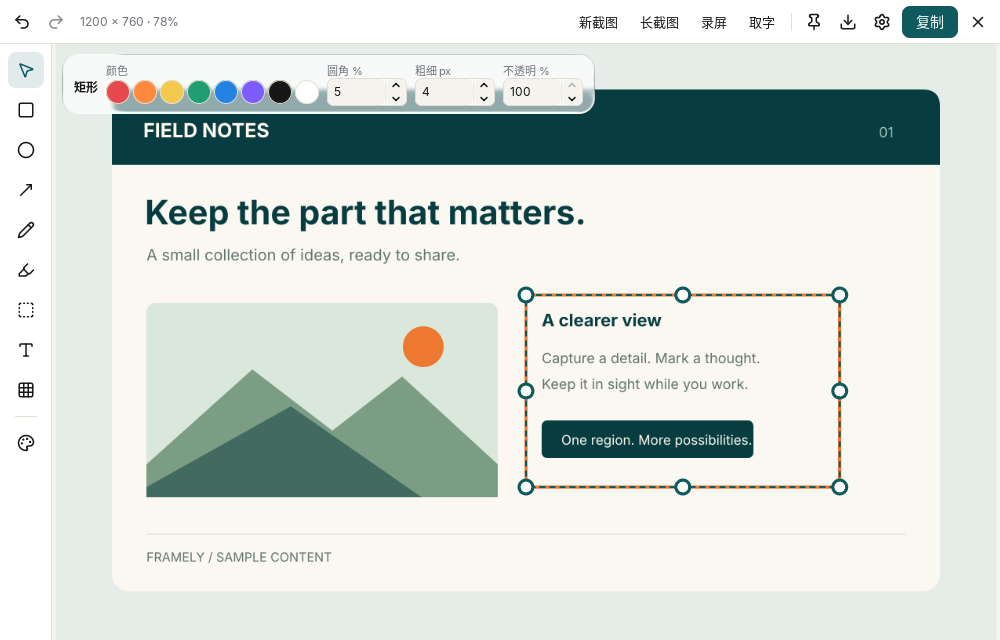
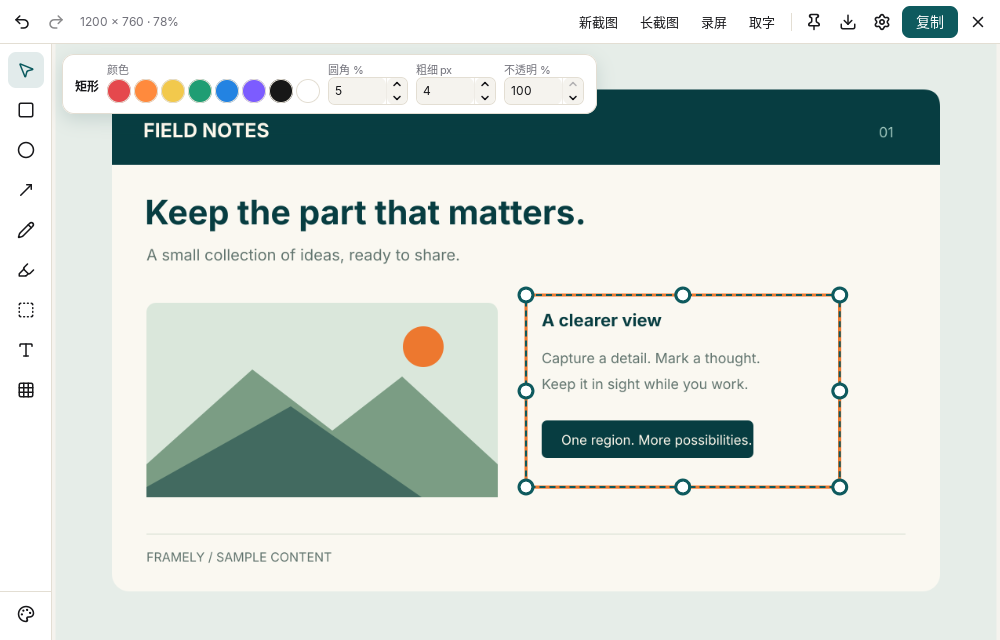
fix(ui): solid style strip instead of glass
The glass strip read poorly over busy screenshots; a solid surface
with a hairline border and soft shadow stays legible on any image.

Changed region(s): [[0.062, 0.0938, 0.62, 0.1875], [0.0, 0.9375, 0.031, 0.9688], [0.0, 0.6875, 0.031, 0.7188]]

diff --git a/internal/editor/properties.go b/internal/editor/properties.go
@@ -5,7 +5,6 @@ import (
 	"strconv"
 	"strings"
 
-	"github.com/egoist/mygo/plugins/glass"
 	"github.com/egoist/mygo/ui"
 	"github.com/wildalley/framely/internal/brand"
 	"github.com/wildalley/framely/internal/doc"
@@ -103,7 +102,7 @@ func (a *App) propertyColors(c *ui.Context, style doc.Style, expanded bool) {
 	})
 }
 
-// styleStrip floats over the top-left of the canvas on glass while the
+// styleStrip floats over the top-left of the canvas while the
 // current tool or the selected annotation has a style to change, and hides
 // while drawing. The whole image's corners and the full set of options stay
 // in the appearance popover.
@@ -121,8 +120,9 @@ func (a *App) styleStrip(c *ui.Context, stageWidth float32) {
 		cellWidth = 80
 	}
 	ui.Row(c.Key("properties")).Label("快捷属性").Absolute().Top(10).Left(10).MaxWidth(stageWidth-20).
-		Height(propertyGroupHeight+16).Padding(8, 12).Gap(8).AlignItems(ui.End).Radius(16).
-		Material(glass.Glass{}).Disabled(a.busy).Children(func() {
+		Height(propertyGroupHeight+16).Padding(8, 12).Gap(8).AlignItems(ui.End).Radius(12).
+		Background(c.Theme().Background).Border(1, c.Theme().Border).
+		Shadow(0, 6, 18, 0, ui.RGBA(7, 61, 65, .14)).Disabled(a.busy).Children(func() {
 		ui.Text(c, toolName(target)).FontSize(12).FontWeight(600).Height(28).MaxLines(1).Shrink(0)
 		a.propertyColors(c, *style, stageWidth >= 560)
 		index := 0

diff --git a/CHANGELOG.md b/CHANGELOG.md
@@ -3,7 +3,7 @@
 ## 未发布
 
 - 界面配色改为图标的深青、暖白与橙色点缀，替换原来的天蓝色。
-- 图片窗口改为「顶部细栏 + 左侧工具栏 + 画布」：不再拆成两三行，属性行改为选中标注时浮在画布左上角的玻璃样式条（MyGo glass）。窗口最小 480 × 360，小图居中。
+- 图片窗口改为「顶部细栏 + 左侧工具栏 + 画布」：不再拆成两三行，属性行改为选中标注时浮在画布左上角的样式条。窗口最小 480 × 360，小图居中。
 - GitHub 仓库改名为 `wildalley/framely`，Go 模块路径同步改为 `github.com/wildalley/framely`；旧仓库链接自动跳转。可执行文件、配置目录和应用 ID 不变。
 - 发布打包遇到 macOS `hdiutil` 暂时性占用错误时自动重试。
 
